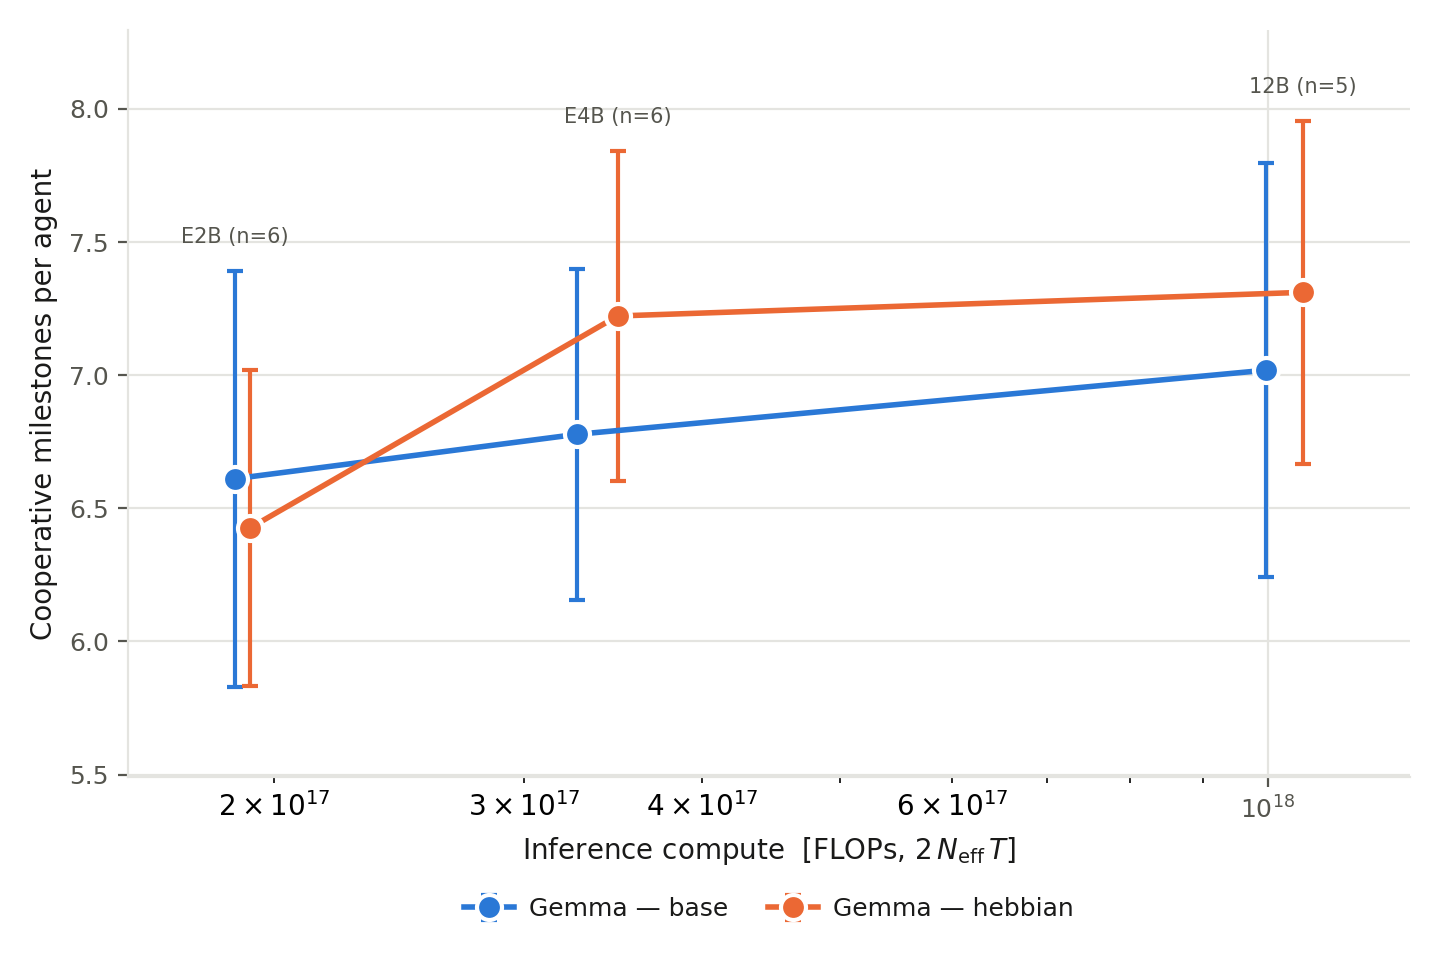
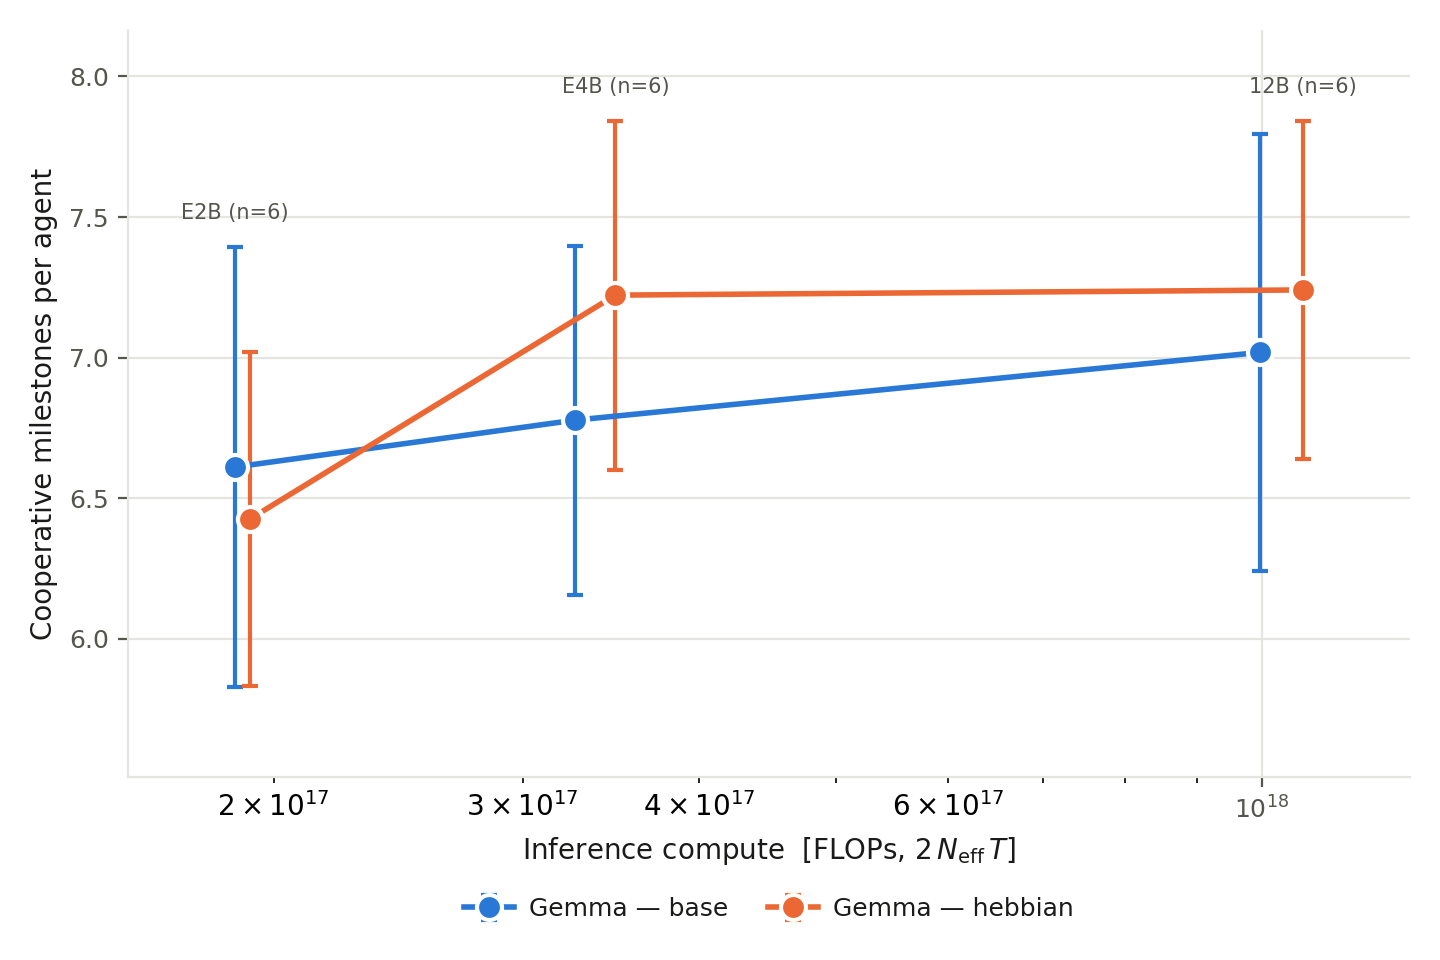
Pareto assets: 12b hebbian at full n=6 (seed_1213 landed)

diff --git a/paper_assets_pareto/pareto_results.tex b/paper_assets_pareto/pareto_results.tex
@@ -11,7 +11,7 @@ Gemma & Gemma E2B & 2.3B & hebbian & 6 & $1.92\times10^{17}$ & $6.43 \pm 0.59$ &
 Gemma & Gemma E4B & 4.5B & base & 6 & $3.27\times10^{17}$ & $6.78 \pm 0.62$ & $174.64 \pm 28.20$ \\
 Gemma & Gemma E4B & 4.5B & hebbian & 6 & $3.49\times10^{17}$ & $7.22 \pm 0.62$ & $167.09 \pm 29.36$ \\
 Gemma & Gemma 12B & 12.0B & base & 6 & $9.97\times10^{17}$ & $7.02 \pm 0.78$ & $153.87 \pm 25.96$ \\
-Gemma & Gemma 12B & 12.0B & hebbian & 5 & $1.06\times10^{18}$ & $7.31 \pm 0.65$ & $146.71 \pm 30.57$ \\
+Gemma & Gemma 12B & 12.0B & hebbian & 6 & $1.07\times10^{18}$ & $7.24 \pm 0.60$ & $143.44 \pm 28.49$ \\
 \midrule
 Qwen & Qwen3.5-2B & 2.0B & base & 6 & $2.23\times10^{17}$ & $7.17 \pm 0.65$ & $119.30 \pm 40.67$ \\
 Qwen & Qwen3.5-2B & 2.0B & hebbian & 6 & $2.72\times10^{17}$ & $7.00 \pm 0.78$ & $106.83 \pm 39.32$ \\

diff --git a/paper_assets_pareto/pareto_results.md b/paper_assets_pareto/pareto_results.md
@@ -5,7 +5,7 @@
 | Gemma | Gemma E4B | 4.5B | base | 6 | 3.27e+17 | 6.78 ± 0.62 | 174.64 ± 28.20 |
 | Gemma | Gemma E4B | 4.5B | hebbian | 6 | 3.49e+17 | 7.22 ± 0.62 | 167.09 ± 29.36 |
 | Gemma | Gemma 12B | 12.0B | base | 6 | 9.97e+17 | 7.02 ± 0.78 | 153.87 ± 25.96 |
-| Gemma | Gemma 12B | 12.0B | hebbian | 5 | 1.06e+18 | 7.31 ± 0.65 | 146.71 ± 30.57 |
+| Gemma | Gemma 12B | 12.0B | hebbian | 6 | 1.07e+18 | 7.24 ± 0.60 | 143.44 ± 28.49 |
 | Qwen | Qwen3.5-2B | 2.0B | base | 6 | 2.23e+17 | 7.17 ± 0.65 | 119.30 ± 40.67 |
 | Qwen | Qwen3.5-2B | 2.0B | hebbian | 6 | 2.72e+17 | 7.00 ± 0.78 | 106.83 ± 39.32 |
 | Qwen | Qwen3.5-9B | 9.0B | base | 6 | 8.92e+17 | 8.83 ± 0.69 | 207.49 ± 29.24 |
